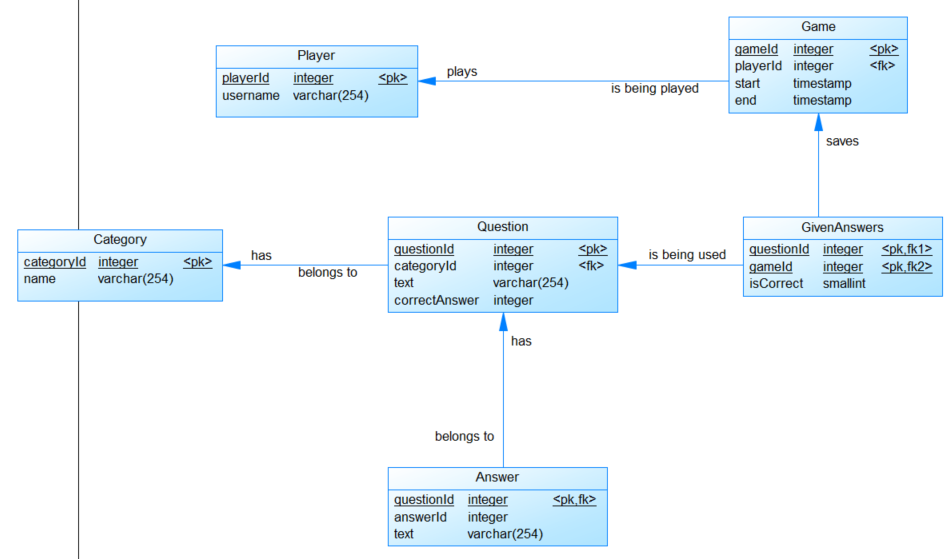
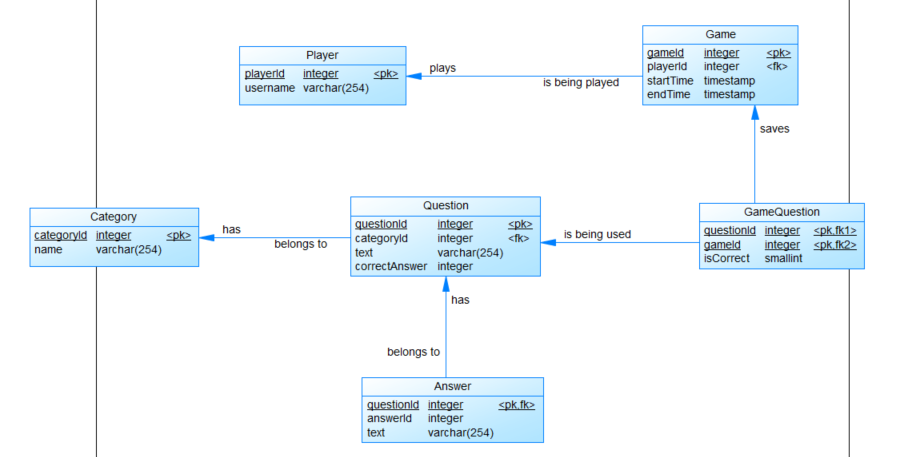
1. Removed setGameId method from Game 2. Updated uml & pdm 3. Certain other small changes (not affecting implementation)

diff --git a/src/main/java/de/hda/fbi/db2/stud/entity/GameQuestion.java b/src/main/java/de/hda/fbi/db2/stud/entity/GameQuestion.java
@@ -28,20 +28,20 @@ public class GameQuestion {
     this.game = game;
   }
 
-  public Question getQuestion() {
-    return question;
-  }
-
-  public Game getGame() {
-    return game;
-  }
-
   public boolean isCorrect() {
     return isCorrect;
   }
 
   public void setCorrect(boolean correct) {
     isCorrect = correct;
+  }
+
+  public Question getQuestion() {
+    return question;
+  }
+
+  public Game getGame() {
+    return game;
   }
 
   @Override

diff --git a/src/main/java/de/hda/fbi/db2/stud/entity/Game.java b/src/main/java/de/hda/fbi/db2/stud/entity/Game.java
@@ -73,10 +73,6 @@ public class Game {
         game.player) && Objects.equals(gameQuestions, game.gameQuestions);
   }
 
-  public void setGameId(int gameId) {
-    this.gameId = gameId;
-  }
-
   public int getGameId() {
     return gameId;
   }
